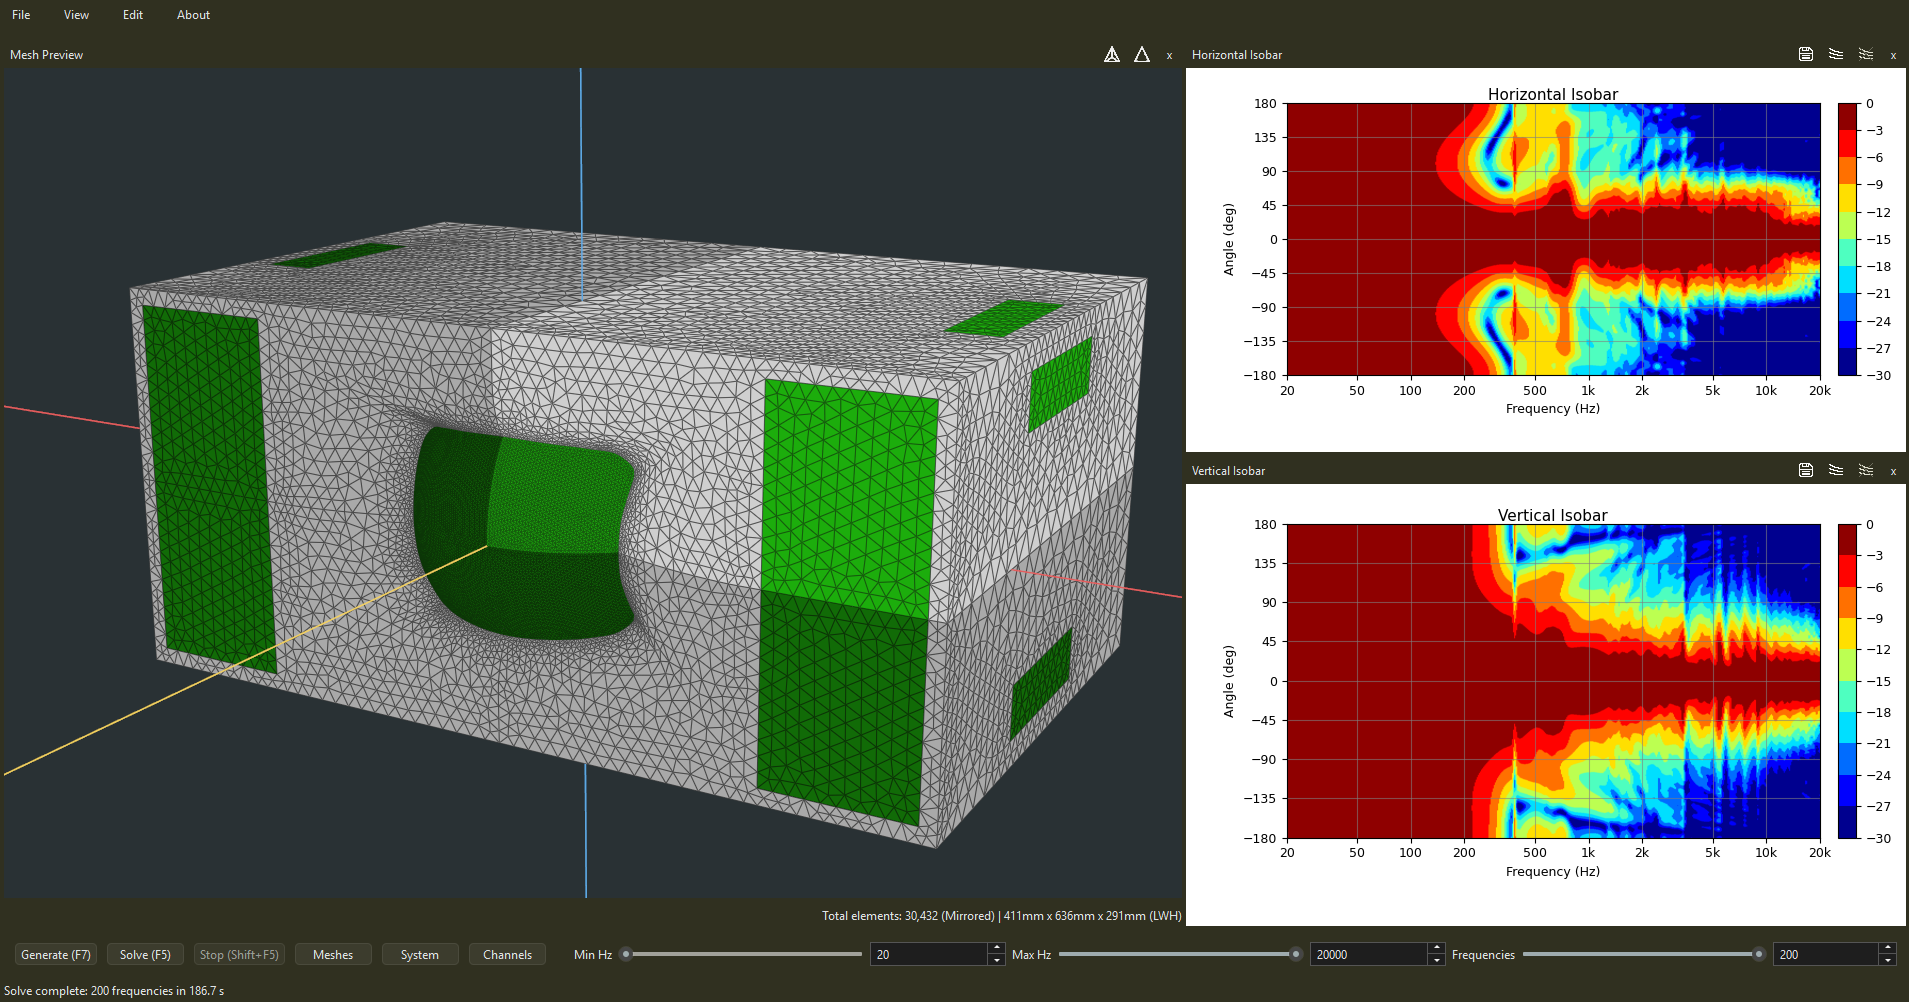
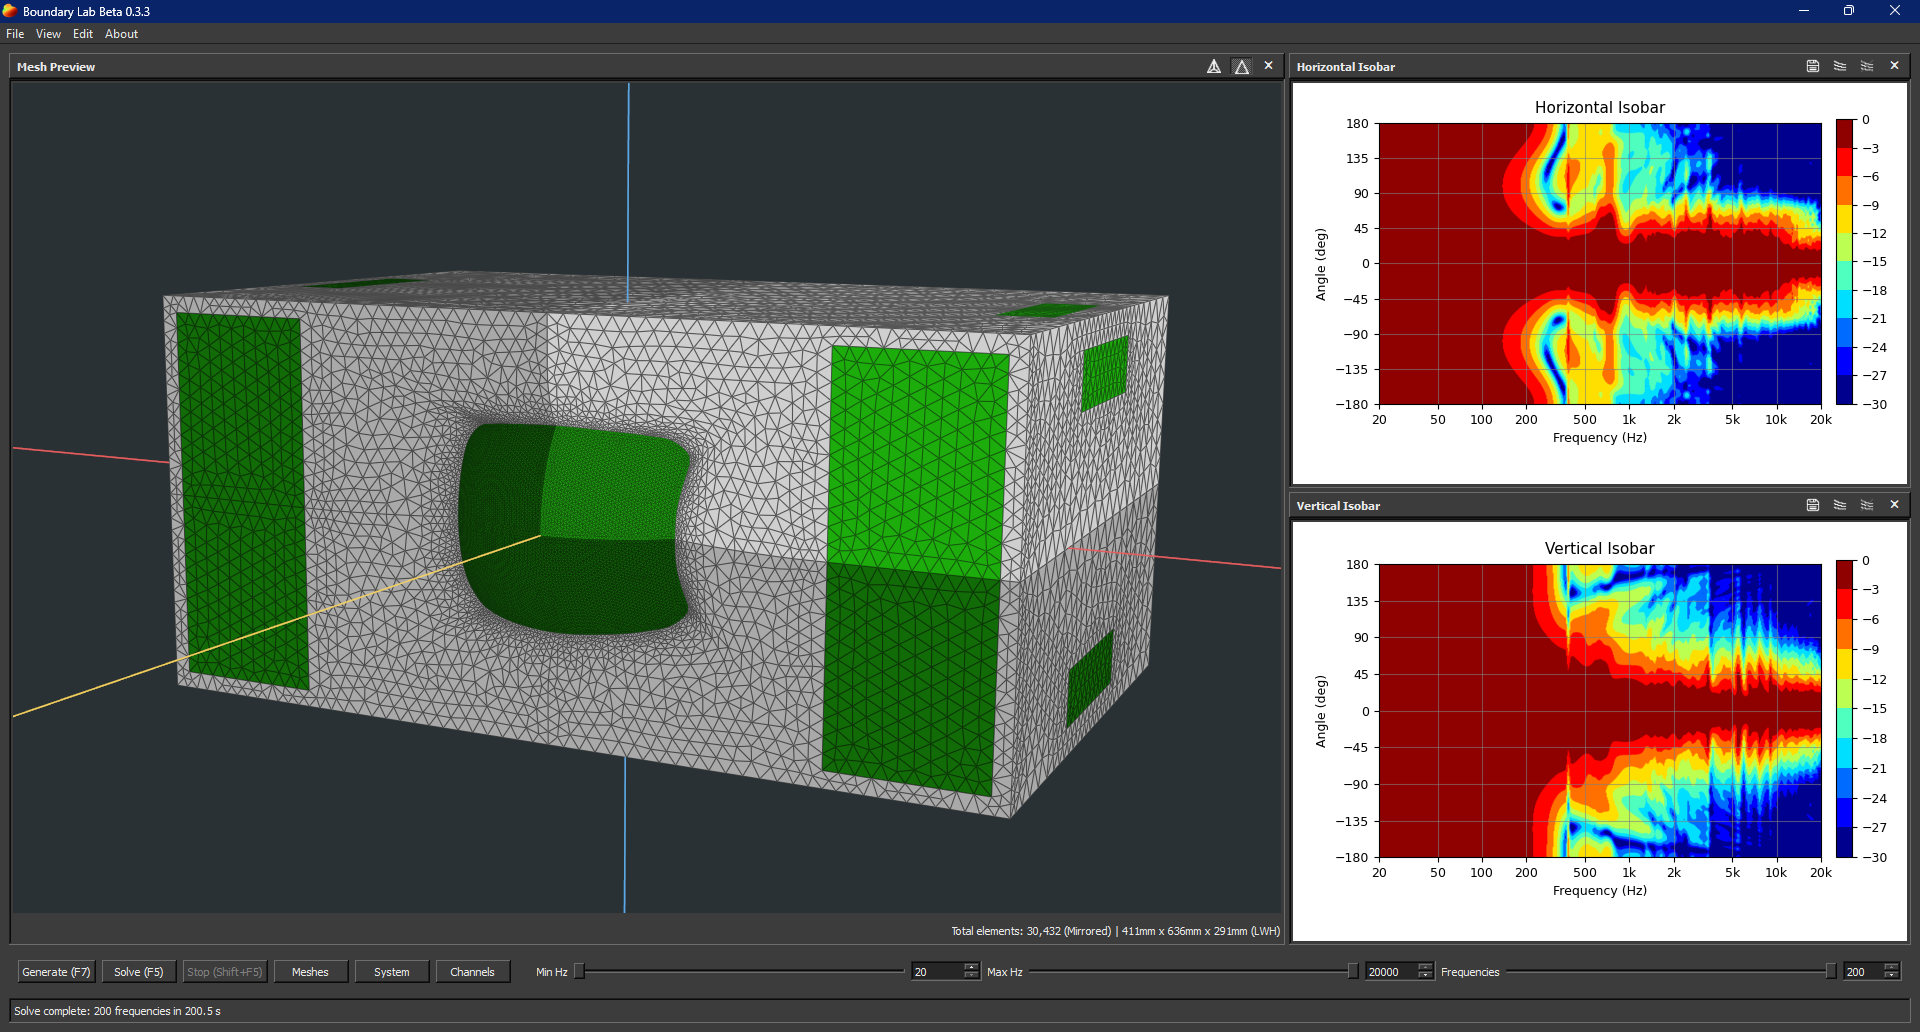
Fix hidden plot rendering issue

diff --git a/src/blab/ui/main_window/panels.py b/src/blab/ui/main_window/panels.py
@@ -2,7 +2,7 @@
 
 from __future__ import annotations
 
-from PySide6.QtCore import QSignalBlocker
+from PySide6.QtCore import QSignalBlocker, QTimer
 
 
 class PanelVisibilityMixin:
@@ -40,13 +40,9 @@ class PanelVisibilityMixin:
             if dock is not None and dock.isVisible() != visible:
                 dock.setVisible(visible)
             if visible:
-                if self.solve_controller.active:
-                    if self.preferences.live_plot_streaming:
-                        self.request_live_refresh()
-                else:
-                    self.refresh_plots()
-                if self._use_final_isobar_resolution and plot_id in {"horizontal_isobar", "vertical_isobar"}:
-                    self._final_isobar_plots_rendered = True
+                if dock is not None:
+                    dock.raise_()
+                self._schedule_visible_plot_refresh()
             self.refresh_contour_controls()
             break
 
@@ -58,11 +54,28 @@ class PanelVisibilityMixin:
         with QSignalBlocker(action):
             action.setChecked(not dock.isHidden())
         if not dock.isHidden():
-            if self.solve_controller.active:
-                if self.preferences.live_plot_streaming:
-                    self.request_live_refresh()
-            else:
-                self.refresh_plots()
-            if self._use_final_isobar_resolution and plot_id in {"horizontal_isobar", "vertical_isobar"}:
-                self._final_isobar_plots_rendered = True
+            self._schedule_visible_plot_refresh()
+        self.refresh_contour_controls()
+
+    def _schedule_visible_plot_refresh(self) -> None:
+        """Refresh selected plot tabs after Qt has assigned their geometry."""
+        if self._plot_activation_refresh_pending:
+            return
+        self._plot_activation_refresh_pending = True
+        QTimer.singleShot(0, self._refresh_visible_plots)
+
+    def _refresh_visible_plots(self) -> None:
+        self._plot_activation_refresh_pending = False
+        active_entries = [entry for entry in self.plot_entries if self._plot_entry_is_actively_visible(entry)]
+        if not active_entries:
+            return
+        if self.solve_controller.active:
+            if self.preferences.live_plot_streaming:
+                self.request_live_refresh()
+        else:
+            self.refresh_plots(active_only=True)
+        if self._use_final_isobar_resolution and any(
+            entry.plot_id in {"horizontal_isobar", "vertical_isobar"} for entry in active_entries
+        ):
+            self._final_isobar_plots_rendered = True
         self.refresh_contour_controls()

diff --git a/tests/test_ui_plot_streaming_performance.py b/tests/test_ui_plot_streaming_performance.py
@@ -90,6 +90,52 @@ def test_live_plot_refresh_flushes_only_actively_visible_entries() -> None:
     )
 
 
+def test_final_plot_refresh_skips_tab_covered_canvases() -> None:
+    dataset = object()
+    updates = []
+    active = SimpleNamespace(plot_id="active", update=lambda value: updates.append(("active", value)))
+    covered = SimpleNamespace(plot_id="covered", update=lambda value: updates.append(("covered", value)))
+    dock = SimpleNamespace(isHidden=lambda: False)
+    window = SimpleNamespace(
+        plot_entries=(active, covered),
+        plot_docks={"active": dock, "covered": dock},
+        _plot_entry_is_actively_visible=lambda entry: entry.plot_id == "active",
+        _use_final_isobar_resolution=True,
+        prepared_live_dataset=lambda **_options: dataset,
+    )
+
+    result = MainWindow.refresh_plots(window, active_only=False)
+
+    assert result is dataset
+    assert updates == [("active", dataset)]
+
+
+def test_activated_plot_refresh_uses_cached_solve_after_geometry_is_visible() -> None:
+    refresh_calls = []
+    contour_calls = []
+    active = SimpleNamespace(plot_id="on_axis_frequency_response")
+    covered = SimpleNamespace(plot_id="spinorama")
+    window = SimpleNamespace(
+        _plot_activation_refresh_pending=True,
+        plot_entries=(active, covered),
+        _plot_entry_is_actively_visible=lambda entry: entry is active,
+        solve_controller=SimpleNamespace(active=False),
+        preferences=SimpleNamespace(live_plot_streaming=True),
+        refresh_plots=lambda **options: refresh_calls.append(options),
+        request_live_refresh=lambda: None,
+        _use_final_isobar_resolution=True,
+        _final_isobar_plots_rendered=False,
+        refresh_contour_controls=lambda: contour_calls.append(True),
+    )
+
+    MainWindow._refresh_visible_plots(window)
+
+    assert window._plot_activation_refresh_pending is False
+    assert refresh_calls == [{"active_only": True}]
+    assert window._final_isobar_plots_rendered is False
+    assert contour_calls == [True]
+
+
 def test_isobar_canvas_reuses_mesh_colorbar_and_colormap() -> None:
     canvas = IsobarCanvas("Horizontal")
     freqs = np.asarray([100.0, 1000.0, 10000.0], dtype=np.float32)

diff --git a/src/blab/ui/main_window/plot_presenter.py b/src/blab/ui/main_window/plot_presenter.py
@@ -83,6 +83,8 @@ class PlotPresenterMixin:
         window = self.windowHandle()
         screen = None if window is None else window.screen()
         for entry in self.plot_entries:
+            if not self._plot_entry_is_actively_visible(entry):
+                continue
             canvas = entry.widget
             if screen is not None and hasattr(canvas, "_update_screen"):
                 canvas._update_screen(screen)
@@ -265,12 +267,18 @@ class PlotPresenterMixin:
         return not entry.widget.visibleRegion().isEmpty()
 
     def refresh_plots(self, *, active_only: bool = False) -> VisualizationProjection | None:
+        # A tab-covered QDockWidget isVisible() and isHidden() == False even
+        # though its canvas has no visible region and may still be only a few
+        # pixels high. Drawing Matplotlib text at that transient geometry can
+        # fail in FreeType, and leaves the tab with a partially drawn figure.
+        # All redraws therefore target canvases that Qt is actually exposing;
+        # covered tabs are refreshed when their dock becomes active.
         visible_entries = [
             entry
             for entry in self.plot_entries
             if (dock := self.plot_docks.get(entry.plot_id)) is not None
             and not dock.isHidden()
-            and (not active_only or self._plot_entry_is_actively_visible(entry))
+            and self._plot_entry_is_actively_visible(entry)
         ]
         if not visible_entries:
             return None

diff --git a/tests/test_main_window_behavior.py b/tests/test_main_window_behavior.py
@@ -327,6 +327,12 @@ def test_dpi_refresh_redraws_canvases_without_recomputing_plots(main_window, mon
     drawn: list[str] = []
     for entry in main_window.plot_entries:
         monkeypatch.setattr(entry.widget, "draw_idle", lambda pid=entry.plot_id: drawn.append(pid))
+    active_plot_id = main_window.plot_entries[0].plot_id
+    monkeypatch.setattr(
+        main_window,
+        "_plot_entry_is_actively_visible",
+        lambda entry: entry.plot_id == active_plot_id,
+    )
 
     refreshed: list[bool] = []
     monkeypatch.setattr(main_window, "refresh_plots", lambda **kw: refreshed.append(True))
@@ -334,7 +340,7 @@ def test_dpi_refresh_redraws_canvases_without_recomputing_plots(main_window, mon
     main_window._plot_dpi_refresh_pending = True
     main_window._refresh_plot_canvas_dpi()
 
-    assert sorted(drawn) == sorted(e.plot_id for e in main_window.plot_entries)
+    assert drawn == [active_plot_id]
     assert refreshed == [], "a DPI change must not re-run the plot pipeline"
     assert main_window._plot_dpi_refresh_pending is False
 

diff --git a/src/blab/ui/main_window/workflow_view.py b/src/blab/ui/main_window/workflow_view.py
@@ -222,7 +222,7 @@ class PlotPresenter(Protocol):
     """
 
     def refresh_plots(self, *, active_only: bool = False):
-        """Recompute and redraw. ``active_only`` skips plots that are off screen."""
+        """Recompute and redraw canvases that are actually exposed on screen."""
 
     def clear_plots(self) -> None:
         """Drop all plotted data, leaving empty axes."""

diff --git a/src/blab/ui/main_window/window.py b/src/blab/ui/main_window/window.py
@@ -341,6 +341,7 @@ class MainWindow(
         self._plot_dpi_screen = None
         self._plot_dpi_window_handle = None
         self._plot_dpi_refresh_pending = False
+        self._plot_activation_refresh_pending = False
         self._live_plot_refresh_dirty = False
         self._live_plot_refresh_timer = QTimer(self)
         self._live_plot_refresh_timer.setSingleShot(True)
